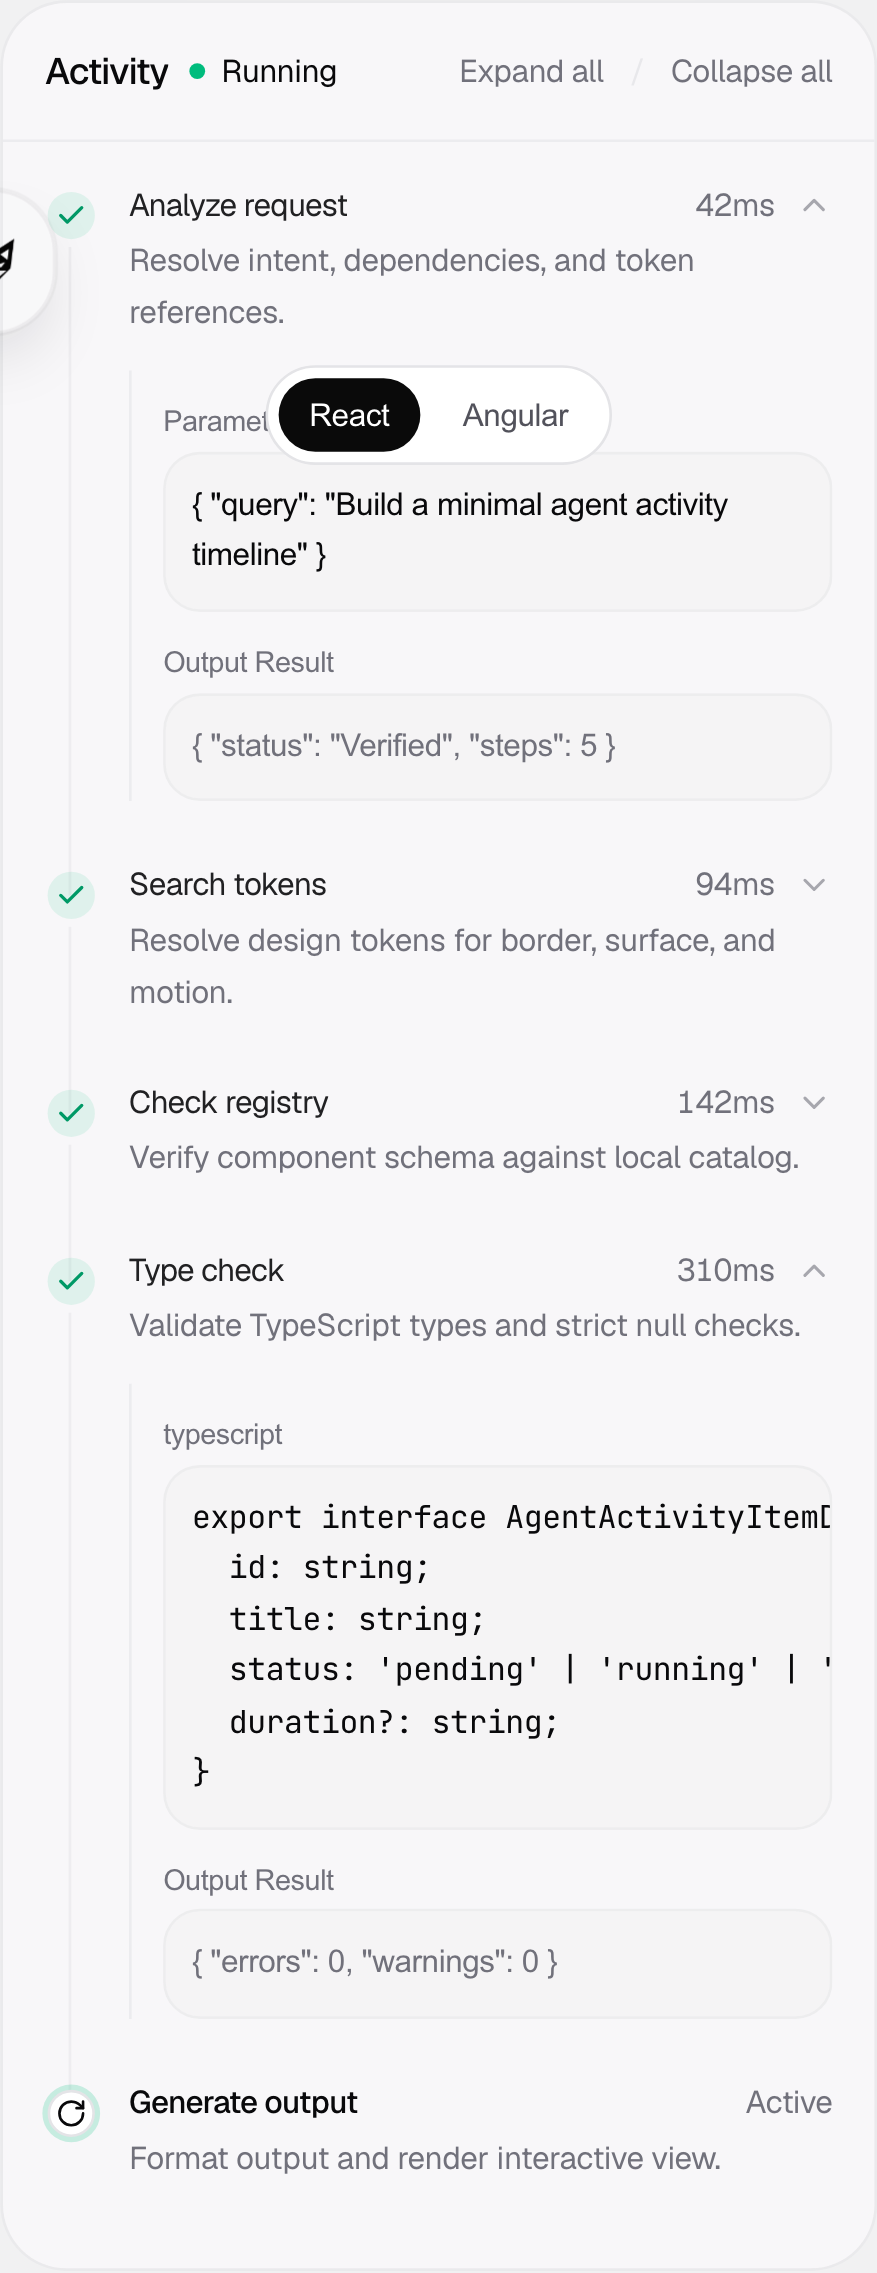
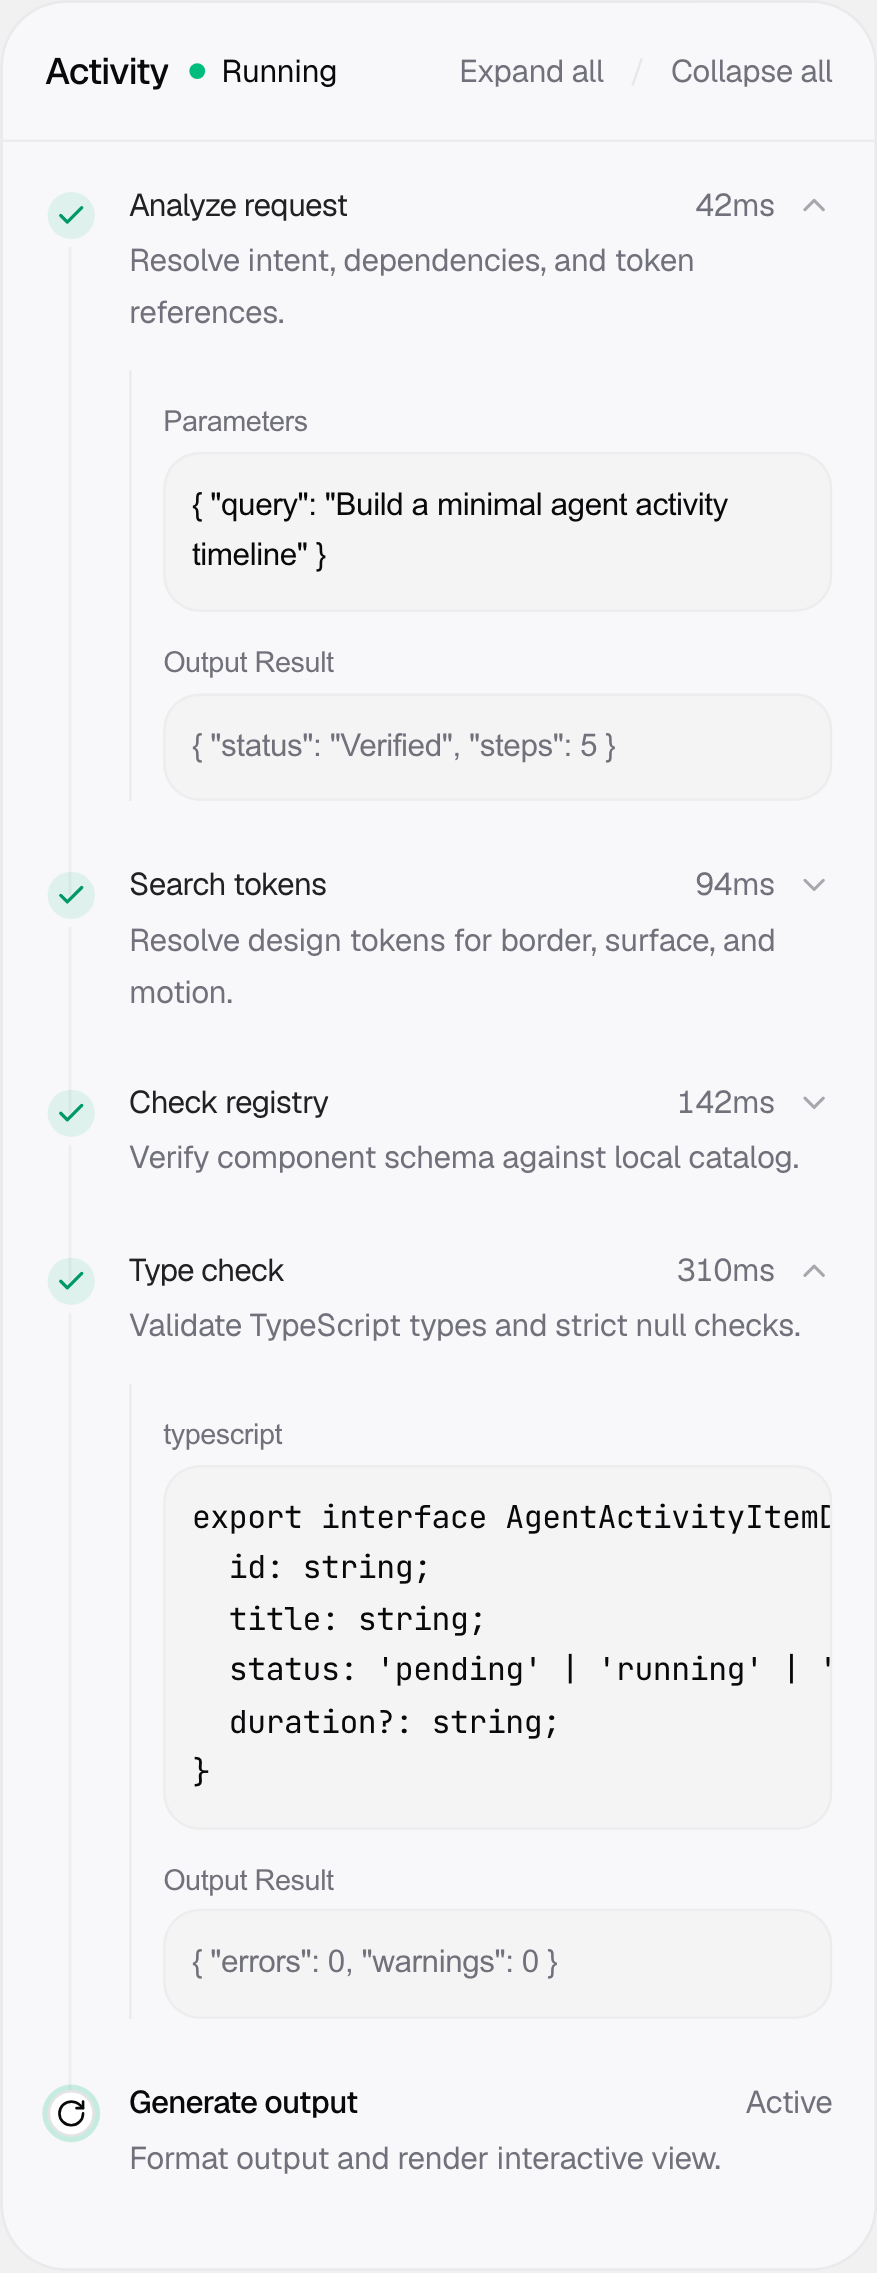
Remove site navigation from agent review screenshots

Changed region(s): [[0.3079, 0.1562, 0.4926, 0.2187], [0.5234, 0.1562, 0.6465, 0.1874], [0.0, 0.0937, 0.0308, 0.1249]]

diff --git a/e2e/agent-activity-parity.spec.ts b/e2e/agent-activity-parity.spec.ts
@@ -55,7 +55,7 @@ for(const theme of ['light','dark'])test(`React and Angular agent geometry and t
  await page.goto('/components/ai-agent-activity?framework=react');
  const root=page.getByRole('heading',{name:'Activity',exact:true}).locator('xpath=../../../..');await expect(root).toBeVisible();
  const size=await root.boundingBox();const react=await metrics(root,{root:'',header:':scope>div:first-child',timeline:':scope>div:nth-child(2)',title:'.tracking-tight.truncate:not(h3)',description:'p',detail:'.overflow-hidden.mt-3',code:'code',parameters:'.overflow-x-auto.select-text:not(pre)'});
- await page.evaluate(()=>{for(const node of Array.from(document.querySelectorAll<HTMLElement>('*')))if(getComputedStyle(node).position==='fixed')node.style.visibility='hidden';});
+ await page.addStyleTag({content:'header.sticky{opacity:0!important;pointer-events:none!important}.fixed{display:none!important}'});
  await root.screenshot({path:testInfo.outputPath(`react-agent-${theme}.png`),animations:'disabled'});
  await page.goto(`/angular-demo/index.html?component=ai-agent-activity&theme=${theme}`);await page.setViewportSize({width:Math.round(size!.width),height:1500});
  const angularRoot=page.locator('.k-ai-agent-activity');await expect(angularRoot).toBeVisible();
